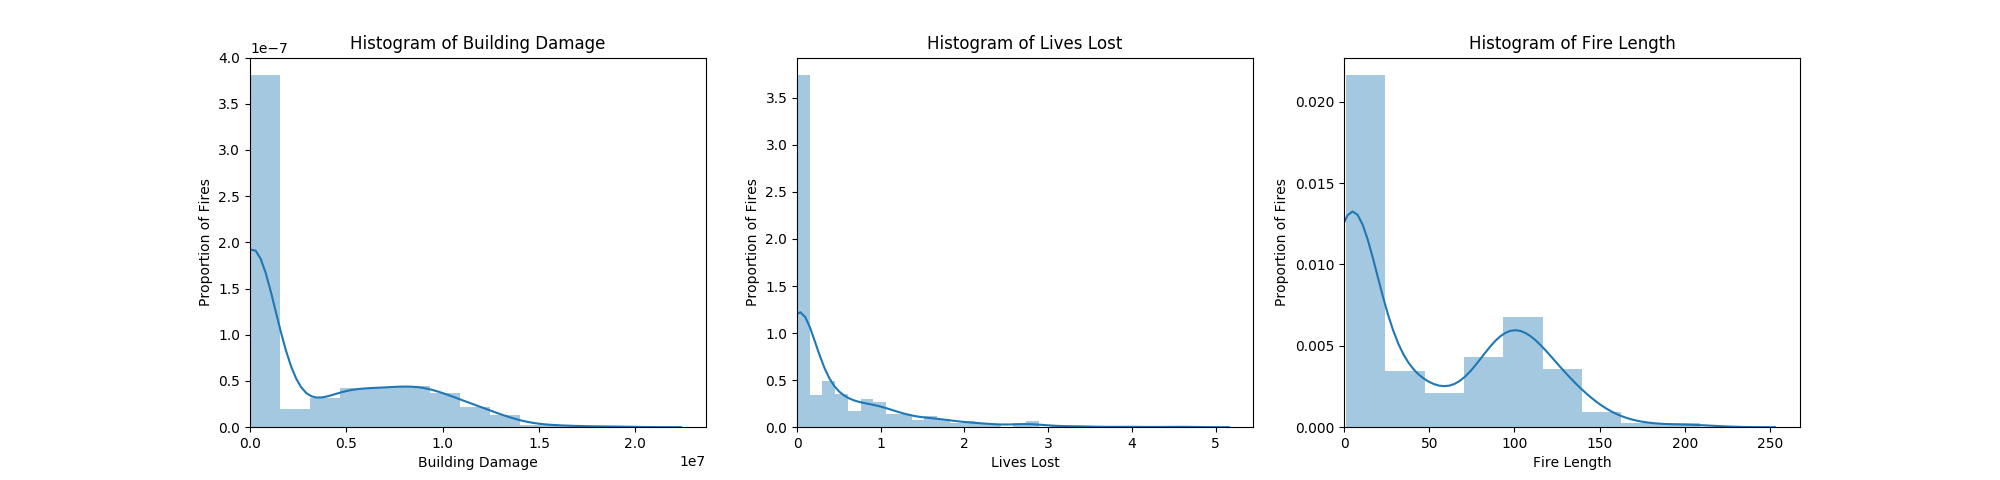
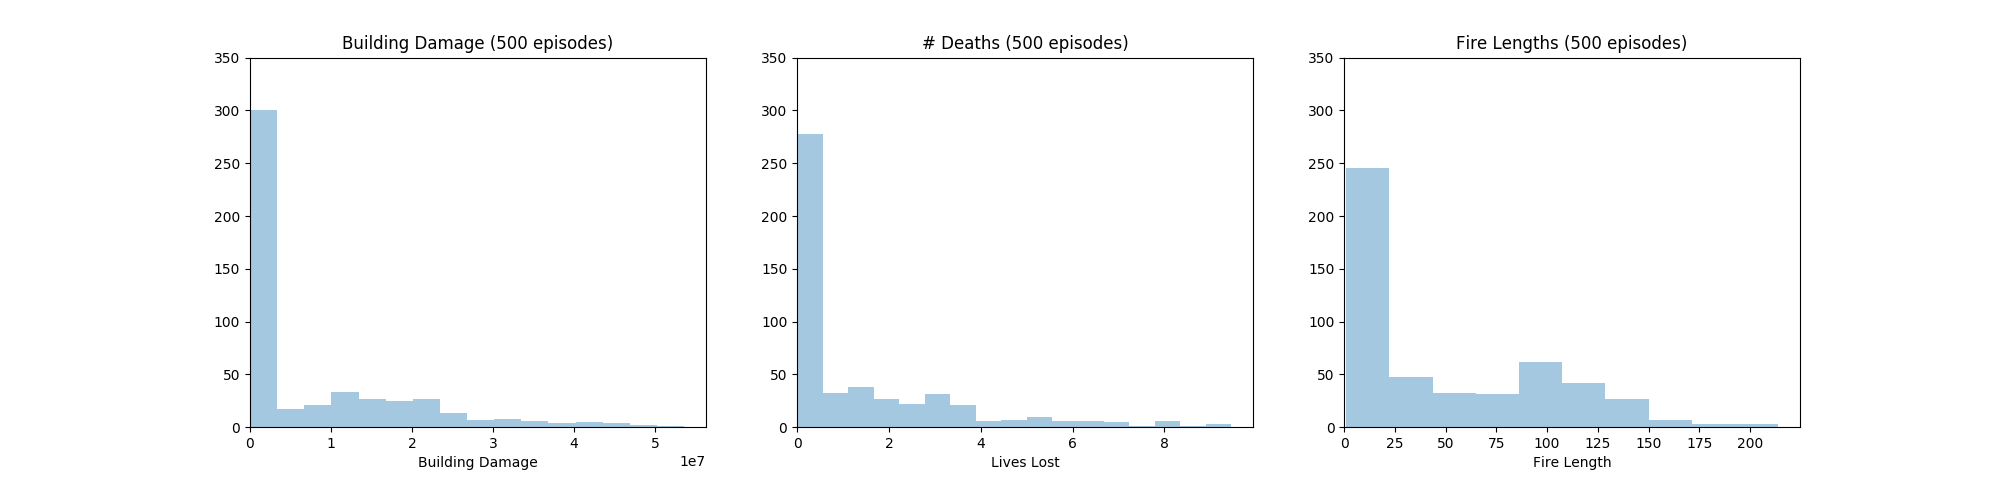
histograms code is cleaner, histograms are nicer

diff --git a/histogram_gen.py b/histogram_gen.py
@@ -6,33 +6,28 @@ import pdb
 map_names = ['CityGrid_JeffersonCounty_CSV', 'JeffCo_firebreaks']
 scenarios = {'CityGrid_JeffersonCounty_CSV': ['InitialValues', 'DefensibleSpace', 'IWUIC', 'Buildings', 'Vegetation'],
 			 'JeffCo_firebreaks': ['InitialValues']}
+hist_names = ['damage_hist', 'lives_hist', 'length_hist']
+hist_titles = ['Building Damage', '# Deaths', 'Fire Lengths']
+hist_axis_labels = [('Building Damage', 'Proportion of Fires'), ('Lives Lost', 'Proportion of Fires'), ('Fire Length', 'Proportion of Fires')]
+num_episodes = 500
 
+n = len(hist_names)
+hists = []
 for map_name in map_names:
 	for scenario in scenarios[map_name]:
 		data_path = path = 'charts/histograms/' + scenario + '_' + map_name
-		with open(data_path + '/damage_hist.txt', 'r') as file:
-			damage_hist = np.array([float(line.strip()) for line in file])
-		with open(data_path + '/lives_hist.txt', 'r') as file:
-			lives_hist = np.array([float(line.strip()) for line in file])
-		with open(data_path + '/length_hist.txt', 'r') as file:
-			length_hist = np.array([float(line.strip()) for line in file])
+		for hist_name in hist_names:
+			with open(data_path + '/' + hist_name + '.txt', 'r') as file:
+				hists.append(np.array([float(line.strip()) for line in file]))
 
-		fig, axs = plt.subplots(ncols = 3)
+		fig, axs = plt.subplots(ncols = n)
 
-		ax1 = sns.distplot(a=damage_hist, ax = axs[0])
-		ax1.set_title('Histogram of Building Damage')
-		ax1.set(xlabel = 'Building Damage', ylabel = 'Proportion of Fires')
-
-		ax2 = sns.distplot(a=lives_hist, ax = axs[1])
-		ax2.set_title('Histogram of Lives Lost')
-		ax2.set(xlabel = 'Lives Lost', ylabel = 'Proportion of Fires')
-
-		ax3 = sns.distplot(a=length_hist, ax = axs[2])
-		ax3.set_title('Histogram of Fire Length')
-		ax3.set(xlabel = 'Fire Length', ylabel = 'Proportion of Fires')
-
-		for ax in axs:
-			ax.set_xlim(left=0)
+		for i in range(n):
+			axs[i] = sns.distplot(a=hists[i], ax=axs[i], hist=True, kde=False, norm_hist=False, axlabel=hist_axis_labels[i][0])
+			axs[i].set_title(hist_titles[i] + ' (' + str(num_episodes) + ' episodes)')
+			# ax[i].set(xlabel = hist_axis_labels[i][0], ylabel = hist_axis_labels[i][1])
+			axs[i].set_xlim(left=0)
+			axs[i].set_ylim(bottom=0,top=num_episodes * 3.5/5)
 
 		fig.set_figwidth(20)
 		fig.savefig('charts/' + scenario + '-' + map_name + '_histogram.png')

diff --git a/heatmap_gen.py b/heatmap_gen.py
@@ -8,15 +8,7 @@ path = 'charts/heatmap_541975/'
 image_path = 'charts/jefferson_county.JPG'
 fire_length = 12
 
-def transparent_cmap(cmap, N=255):
-    mycmap = cmap
-    mycmap._init()
-    mycmap._lut[:,-1] = np.linspace(0, 0.8, N+4)
-    return mycmap
-mycmap = transparent_cmap(plt.cm.Reds)
-
 map_image = Image.open(image_path)
-
 for i in range(fire_length + 1):
 	grid_state = np.loadtxt(path + str(i) + '.txt', delimiter=',')
 	fig, ax = plt.subplots(figsize=(5, 5))
